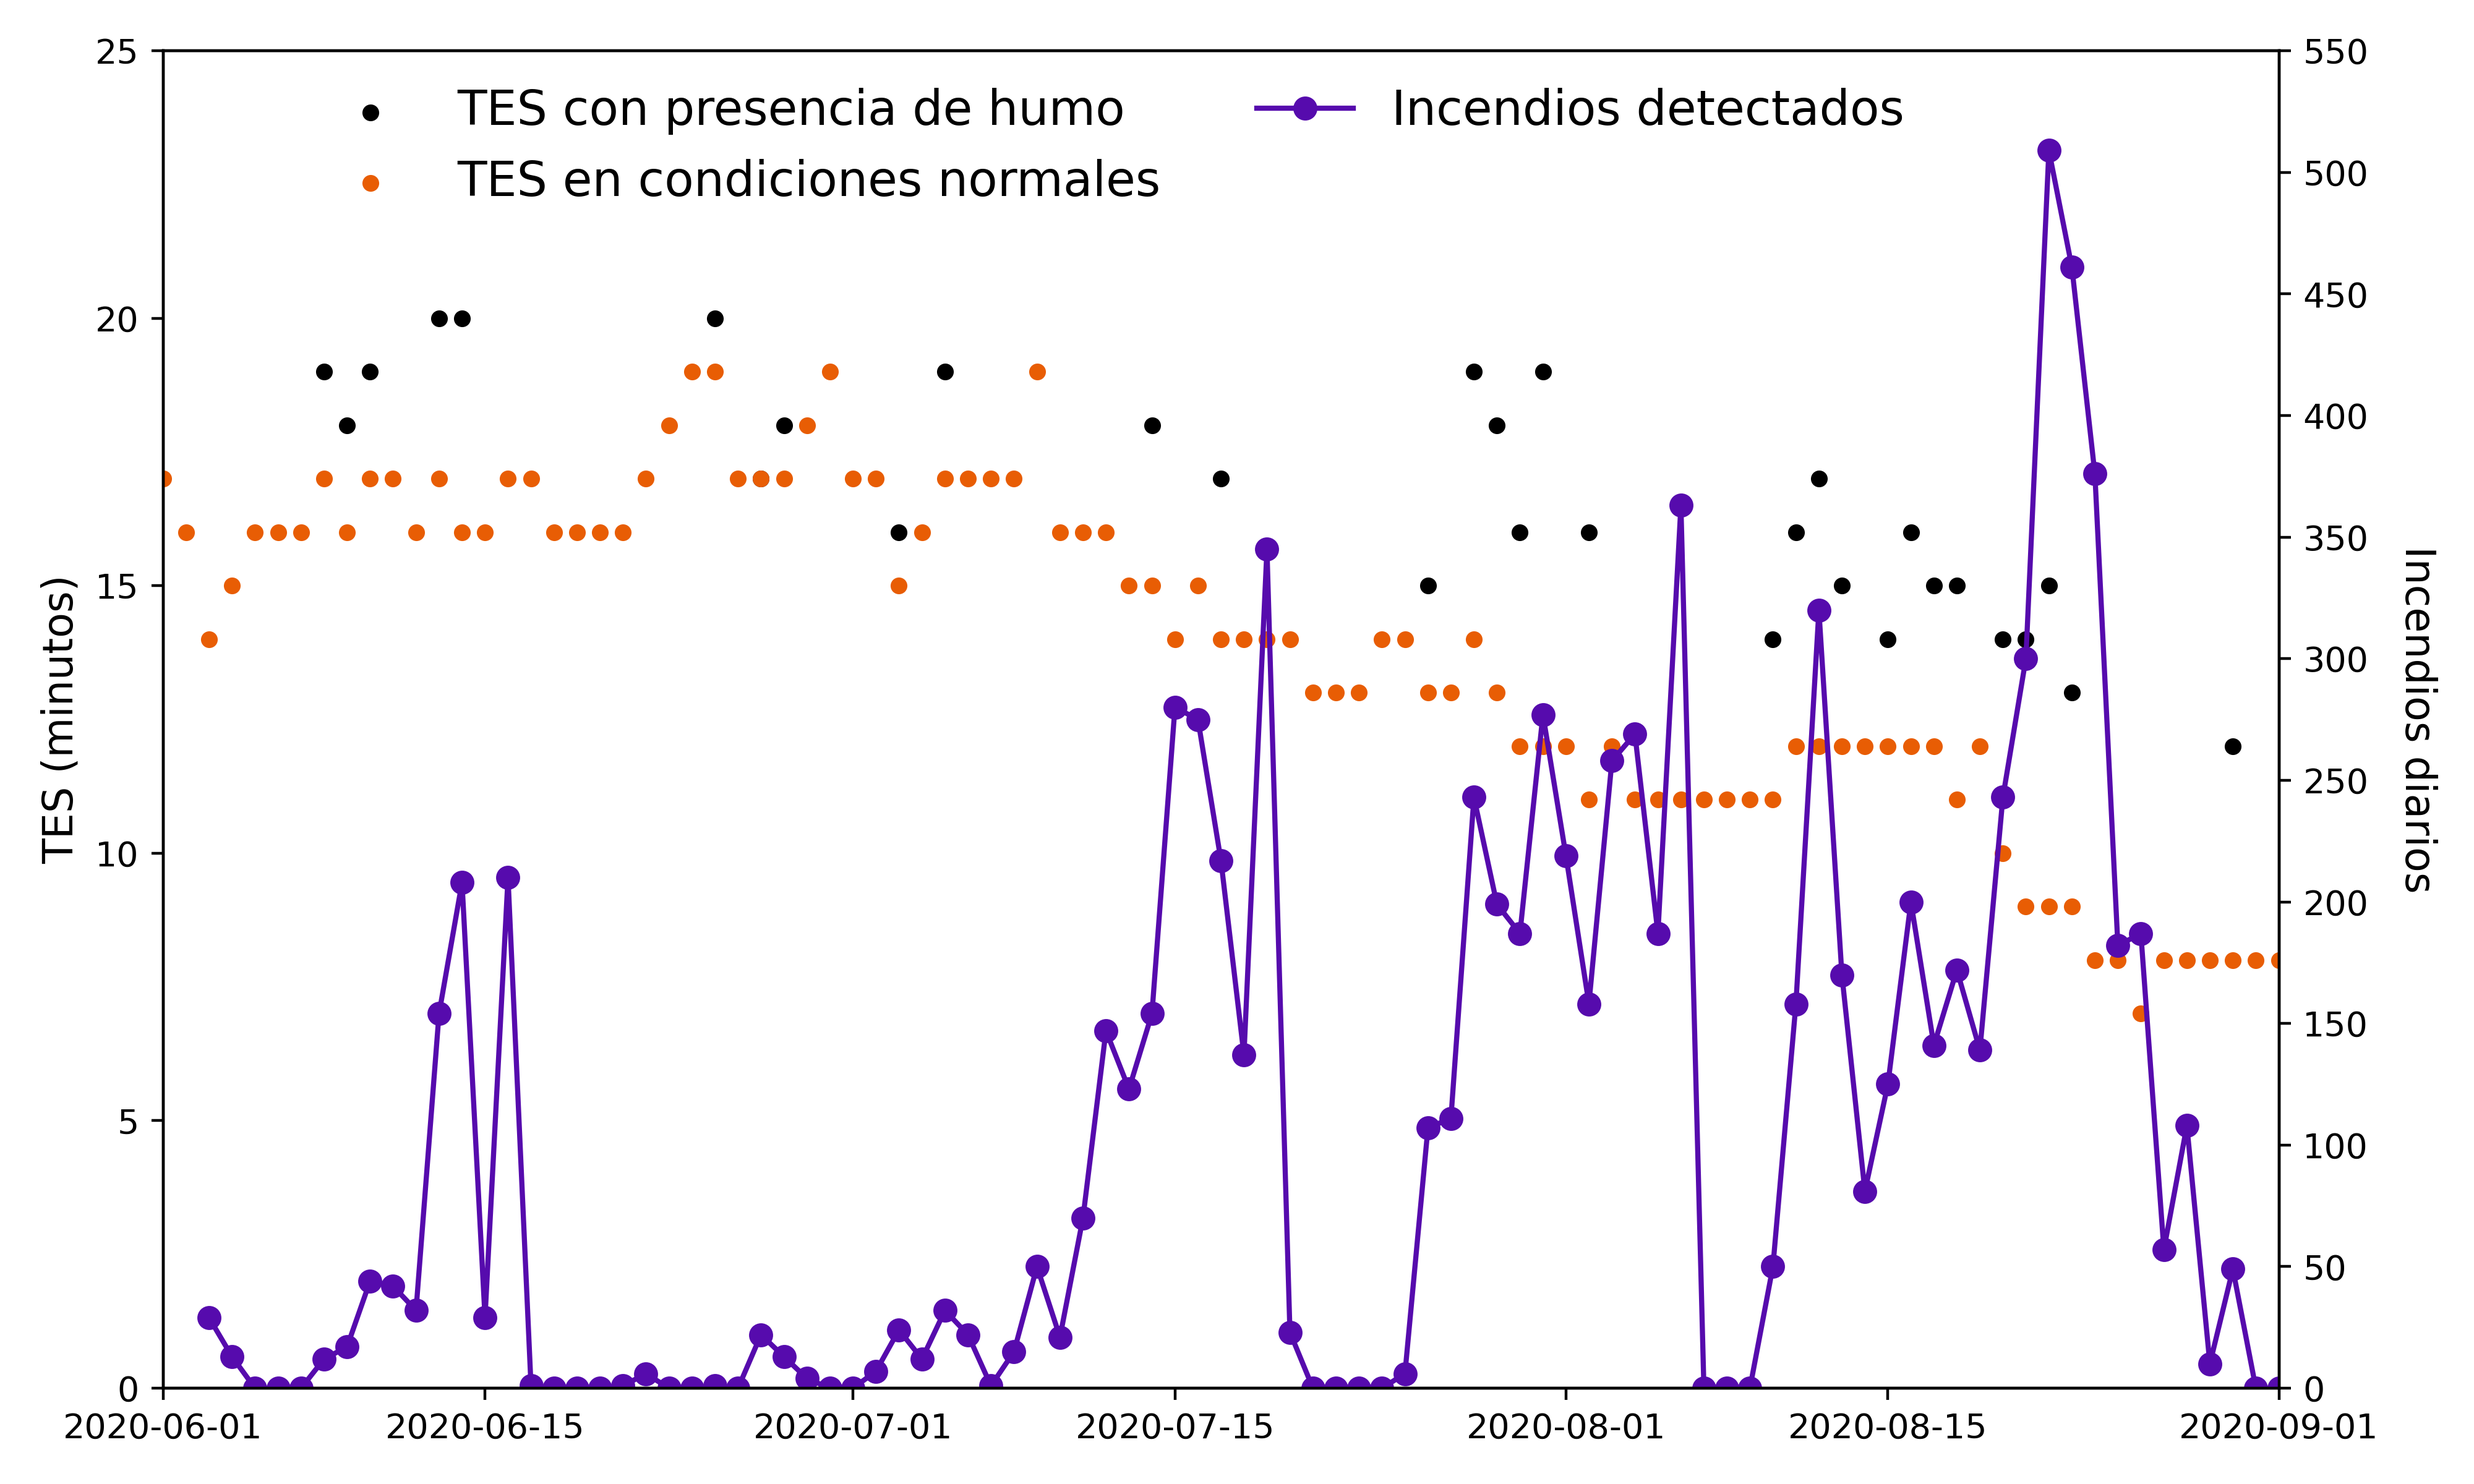
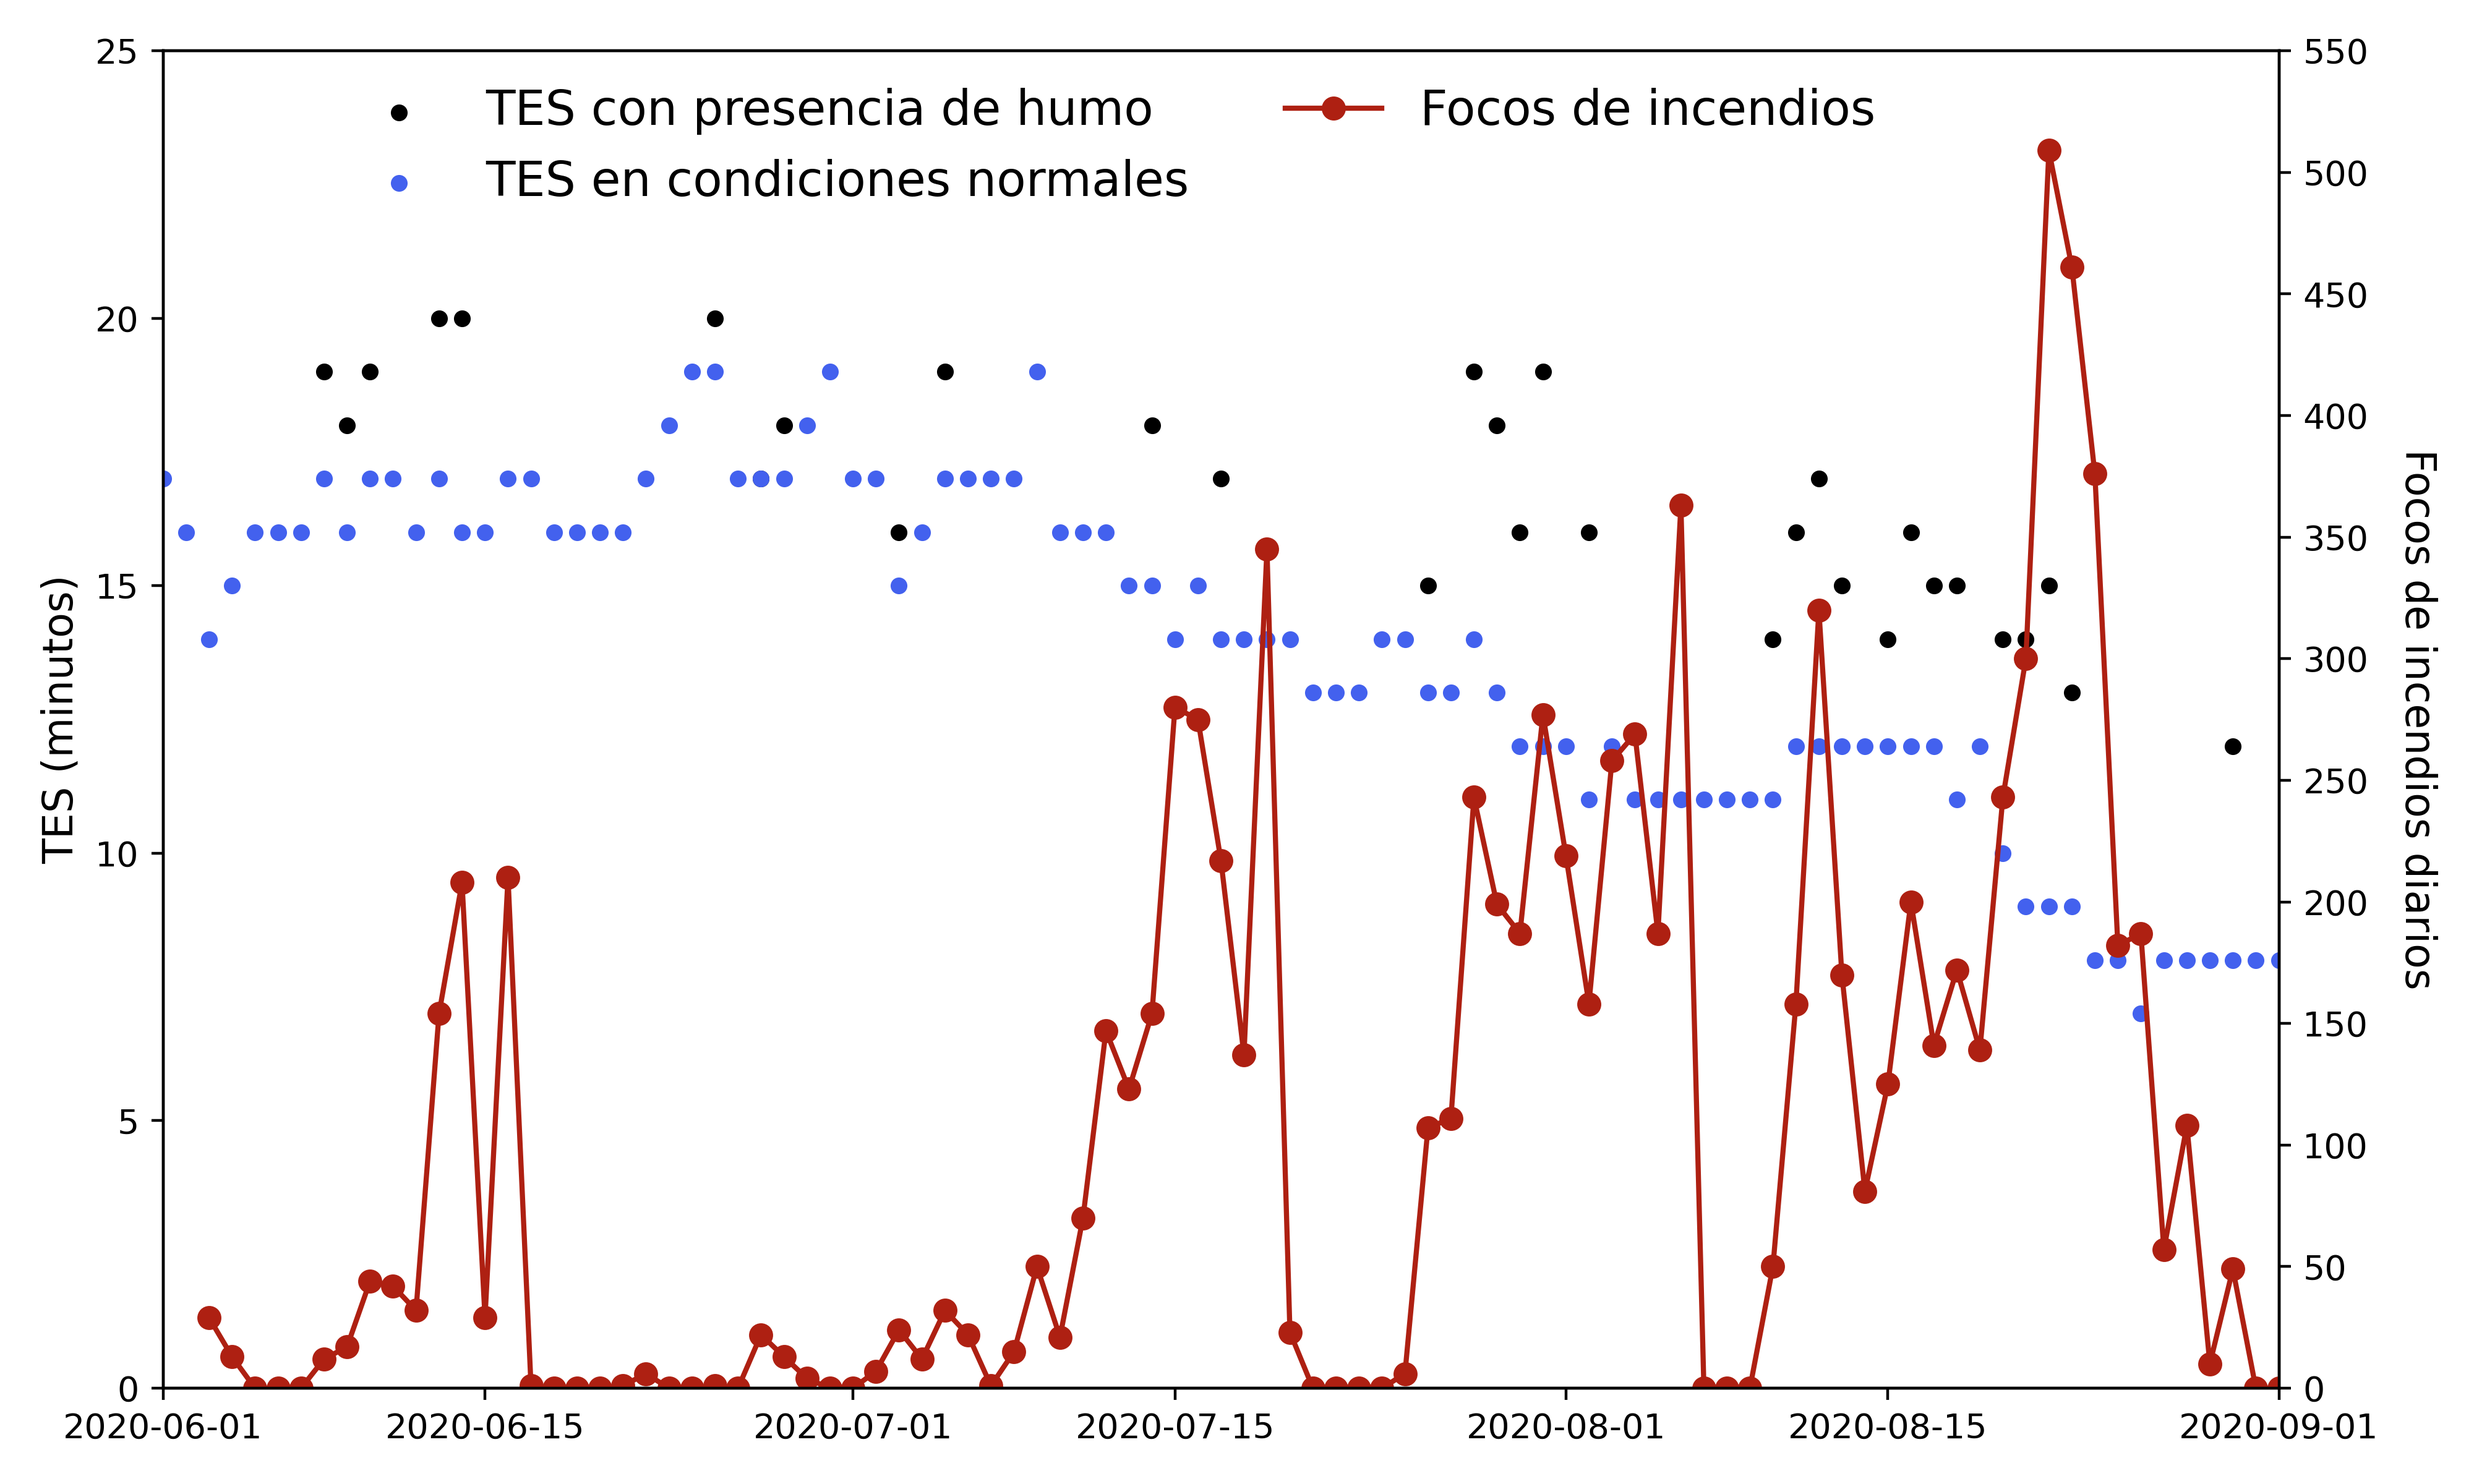
Add graphics

diff --git a/Scripts/Graphics_compare_doses_and_fire.py b/Scripts/Graphics_compare_doses_and_fire.py
@@ -28,7 +28,7 @@ parameters = {"path data": "../Data/",
                                      #                "Title": "Clean"},
                                      "dataset 4": {"AOD": "0.30",
                                                    "Ozone": "OMI",
-                                                   "Color": "#e85d04",
+                                                   "Color": "#4361ee",
                                                    "Title": "TES en condiciones normales", },
                                      },
               }
@@ -48,15 +48,15 @@ for i, dataset in enumerate(parameters["dataset parameters"]):
 data = read_data(parameters["path data"],
                  parameters["file Fire data"])
 ax2.plot(data.index, data["NI"],
-         label="Incendios detectados",
-         color="#560bad",
+         label="Focos de incendios",
+         color="#ae2012",
          marker="o"
          )
 ax1.set_xlim(pd.to_datetime(parameters["date initial"]),
              pd.to_datetime(parameters["date final"]))
 ax1.set_ylabel("TES (minutos)",
                fontsize=parameters["fontsize"])
-ax2.set_ylabel("Incendios diarios",
+ax2.set_ylabel("Focos de incendios diarios",
                fontsize=parameters["fontsize"],
                rotation=-90,
                labelpad=20)
@@ -75,3 +75,4 @@ fig.tight_layout()
 plt.savefig("{}{}".format(parameters["path graphics"],
                           parameters["graphics name"]),
             dpi=400)
+plt.show()
